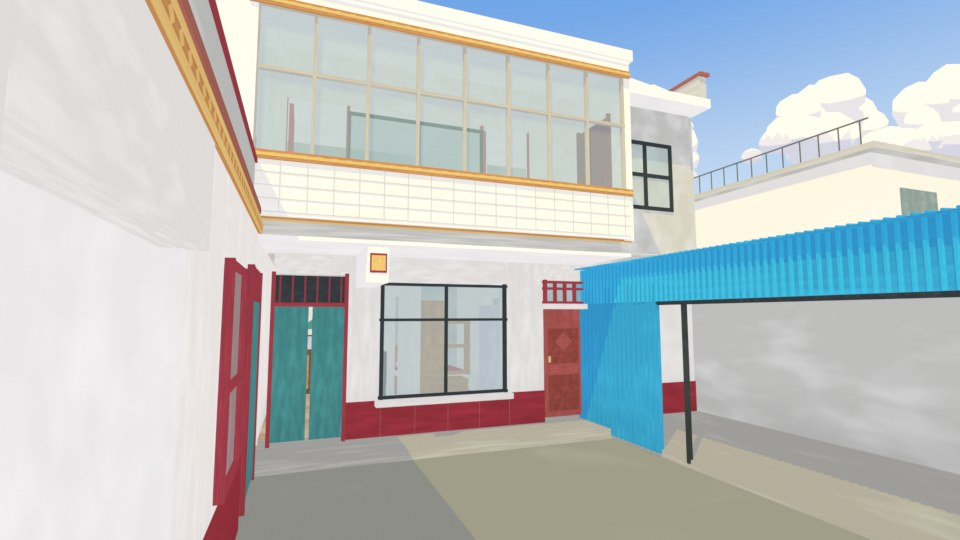
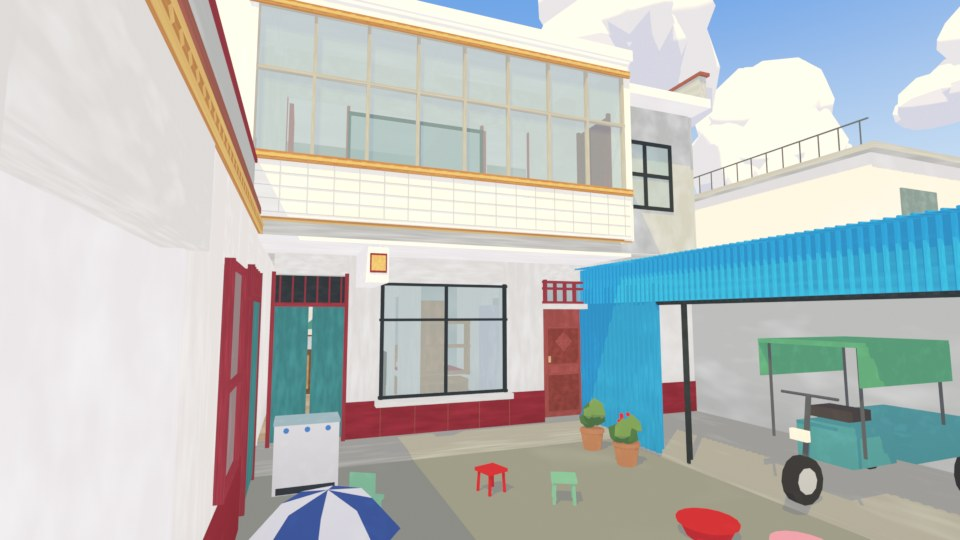
Phase 3 second pass: satellite fit, groves, home dressing, near-view crops
Add a satellite-matched top camera and overlay check, move the plots
off the fields between the north pond and the school, and plant four
satellite groves. Dress the family courtyard with seasonal photo props,
fill tight spots with standalone house blocks, and scatter month-stage
crops, verge grass and wildflowers around the ground-level views while
keeping road corridors clear.

diff --git a/blender/rebuild/layout/build_layout.py b/blender/rebuild/layout/build_layout.py
@@ -391,6 +391,17 @@ def housing(c, trees):
                     Wd = PLOTS[v]["W"]
                 rect = (x, yl - 1.5 - Dp, x + Wd, yl - 1.5)
                 why = blocked(rect)
+                if why in ("home", "exclude", "pond"):
+                    # shallow infill: a standalone 11 x 8 m house block straight onto the lane
+                    small = (x, yl - 1.5 - 8.0, x + 11.0, yl - 1.5)
+                    if not blocked(small):
+                        fac = rng.choice(["grey 2F flat", "white 3F flat", "cream 2F flat", "brick 1F tile", "pink 1F tile"])
+                        p = W((x, yl - 1.5))
+                        place(f"KIT house {fac} L{min(1, lod_for(p))}", p, 0.0, (1, 1, 1), c)
+                        stats["infill"] = stats.get("infill", 0) + 1
+                        row_x.append((x, x + 11.0))
+                        x += 11.0 + rng.uniform(0.5, 2.0)
+                        continue
                 if why:
                     x += 3.0
                     continue
@@ -617,9 +628,11 @@ def fields(c, huts):
                 cells += [(x0, y0, x1, my), (x0, my, x1, y1)]
             else:
                 cells += [(x0, y0, mx, my), (mx, y0, x1, my), (x0, my, mx, y1), (mx, my, x1, y1)]
+    parcels = []
     for r in kept:
         u = rng.random()
         kind = "wheat-maize" if u < 0.85 else ("soybean" if u < 0.93 else "vegetables")
+        parcels.append((r, kind))
         x0, y0, x1, y1 = r
         a, b = W((x0 + 0.3, y1 - 0.3)), W((x1 - 0.3, y0 + 0.3))
         bm = bmesh.new()
@@ -640,7 +653,7 @@ def fields(c, huts):
             for k in range(2):
                 sp = W((x0 + rng.uniform(2, sw - 2), y0 + rng.uniform(10, sl - 10)))
                 place(f"KIT field stake {rng.randrange(2)}", sp, 0.0, (1, 1, 1), huts)
-    return len(kept)
+    return parcels
 
 
 def utilities(c):
@@ -708,6 +721,198 @@ def horizon(c):
             continue
         place(f"KIT poplar clump {'leafy' if LEAFY else 'bare'} {rng.randrange(2)}", p, rng.uniform(0, 6.28), (1, 1, 1), c)
     return n
+
+
+# ---------------------------------------------------------------- second pass: groves, home dressing, near scatter
+
+def groves(trees):
+    n = 0
+    for (x0, y0, x1, y1) in D.GROVES:
+        count = int((x1 - x0) * (y1 - y0) / 45)
+        for k in range(count):
+            q = (rng.uniform(x0 + 2, x1 - 2), rng.uniform(y0 + 2, y1 - 2))
+            if any(G.poly_dist(q, R["pts"]) < R["width"] / 2 + 2 for R in D.ROADS.values()):
+                continue
+            p = W(q)
+            fam = "broadleaf" if rng.random() < 0.7 else "poplar"
+            place(tree_name(fam, lod=lod_for(p)), p, rng.uniform(0, 6.28), rng.uniform(0.8, 1.25), trees)
+            n += 1
+    return n
+
+
+def floor_at(x, y, top=2.6):
+    dg = bpy.context.evaluated_depsgraph_get()
+    hit, loc, *_ = bpy.context.scene.ray_cast(dg, Vector((x, y, top)), Vector((0, 0, -1)))
+    return loc.z if hit else 0.19
+
+
+# the courtyard slab spans x -37.2..-24.8, y -117.3..-101.8: house to the north, kitchen and entry to the west,
+# blue shed to the east. Props follow the courtyard photos and videos (tidy, but lived in).
+HOME_PROPS = [
+    # (kit asset, world x, world y, rotation, months or None, ray start height)
+    ("KIT washing machine", -33.2, -107.7, 0.0, None, 2.6),
+    ("KIT stool red", -31.0, -108.7, 0.3, None, 2.6),
+    ("KIT stool green", -30.3, -109.3, 1.1, None, 2.6),
+    ("KIT kid chair green", -32.6, -109.1, 2.6, None, 2.6),
+    ("KIT basin red", -29.4, -110.6, 0.0, None, 2.6),
+    ("KIT basin pink", -29.0, -111.3, 0.0, None, 2.6),
+    ("KIT basin blue", -32.9, -112.3, 0.0, None, 2.6),
+    ("KIT laundry line", -31.7, -114.6, 0.0, None, 2.6),
+    ("KIT drying rack", -29.6, -113.4, 0.4, None, 2.6),
+    ("KIT umbrella open", -33.1, -110.6, 0.6, None, 2.6),
+    ("KIT potted plant 0", -28.7, -107.5, 0.0, None, 2.6),
+    ("KIT potted plant 1", -28.7, -108.4, 0.0, None, 2.6),
+    ("KIT bamboo broom", -34.0, -112.9, 1.57, None, 2.6),
+    ("KIT stalk pile 0", -29.1, -116.3, 0.3, None, 2.6),
+    ("KIT electric tricycle L0", -26.5, -110.6, 1.5708, None, 2.6),
+    ("KIT e-scooter L0", -38.9, -115.6, 0.05, None, 2.6),
+    ("KIT corn drying", -31.2, -112.0, 0.0, (9, 10), 2.6),
+    ("KIT corn cob pile", -29.3, -115.6, 0.0, (9, 10, 11), 2.6),
+    ("KIT urns", -35.8, -109.8, 0.0, None, 6.5),
+    ("KIT satellite dish", -35.3, -108.2, 2.2, None, 6.5),
+]
+
+
+def home_dressing(c):
+    bpy.context.view_layer.update()
+    n = 0
+    for name, x, y, rot, months, top in HOME_PROPS:
+        if months and MONTH not in months:
+            continue
+        place(name, (x, y, floor_at(x, y, top)), rot, (1, 1, 1), c)
+        n += 1
+    if MONTH in (9, 10, 11, 12, 1, 2):  # strings of chillies drying under the eaves
+        for k, x in enumerate((-32.3, -31.9)):
+            place("KIT chilli string", (x, -106.3, 1.75), 0.0, (1, 1, 1), c)
+            n += 1
+    return n
+
+
+def crop_src(kind, lod):
+    m = MONTH
+    wheat_maize = {10: "wheat seedling", 11: "wheat seedling", 12: "wheat winter", 1: "wheat winter", 2: "wheat winter",
+                   3: "wheat jointing", 4: "wheat jointing", 5: "wheat ripe", 6: "maize seedling 0", 7: "maize knee 0",
+                   8: "maize tall 0", 9: "maize dry 0"}
+    if kind == "soybean" and m in (6, 7, 8, 9):
+        return "KIT soybean L0", (4.0, 2.0)
+    if kind == "vegetables":
+        return "KIT garlic L0", (10.0, 4.0)
+    st = wheat_maize[m]
+    dens = (2.5, 1.5) if st.startswith("maize") else (10.0, 4.0)
+    return f"KIT {st} L{lod}", dens
+
+
+HOTSPOTS = [(599, 700), (565, 400), (250, 266), (404, 131)]  # avenue, home, main road, north pond (map)
+
+
+def _clip(r, q):
+    x0, y0 = max(r[0], q[0]), max(r[1], q[1])
+    x1, y1 = min(r[2], q[2]), min(r[3], q[3])
+    return (x0, y0, x1, y1) if x1 - x0 > 0.5 and y1 - y0 > 0.5 else None
+
+
+def _plane(name, rects_map, c, z=0.02):
+    bm = bmesh.new()
+    for (x0, y0, x1, y1) in rects_map:
+        a, b = W((x0, y1)), W((x1, y0))
+        vs = [bm.verts.new((a.x, a.y, z)), bm.verts.new((b.x, a.y, z)), bm.verts.new((b.x, b.y, z)), bm.verts.new((a.x, b.y, z))]
+        bm.faces.new(vs)
+    me = bpy.data.meshes.new(name)
+    bm.to_mesh(me)
+    bm.free()
+    o = bpy.data.objects.new(name, me)
+    o["sv_kind"] = "scatter"
+    c.objects.link(o)
+    return o
+
+
+def _quads_plane(name, quads_map, c, z=0.03):
+    bm = bmesh.new()
+    for quad in quads_map:
+        vs = [bm.verts.new((*W(q)[:2], z)) for q in quad]
+        f = bm.faces.new(vs)
+    me = bpy.data.meshes.new(name)
+    bm.to_mesh(me)
+    bm.free()
+    o = bpy.data.objects.new(name, me)
+    o["sv_kind"] = "scatter"
+    c.objects.link(o)
+    return o
+
+
+def clear_of_roads(rect, min_size=2.0):
+    """Split a map rectangle into pieces that keep clear of every road corridor (road, shoulder and tree line)."""
+    out, stack = [], [rect]
+    while stack:
+        r = stack.pop()
+        near = min(G.rect_poly_dist(r, R["pts"], samples=2) - (R["width"] / 2 + 2.4) for R in D.ROADS.values())
+        if near > 0:
+            out.append(r)
+            continue
+        x0, y0, x1, y1 = r
+        if max(x1 - x0, y1 - y0) <= min_size:
+            continue
+        mx, my = (x0 + x1) / 2, (y0 + y1) / 2
+        if (x1 - x0) > 2 * (y1 - y0):
+            stack += [(x0, y0, mx, y1), (mx, y0, x1, y1)]
+        elif (y1 - y0) > 2 * (x1 - x0):
+            stack += [(x0, y0, x1, my), (x0, my, x1, y1)]
+        else:
+            stack += [(x0, y0, mx, my), (mx, y0, x1, my), (x0, my, mx, y1), (mx, my, x1, y1)]
+    return out
+
+
+def scatter_near(c, parcels):
+    """Crops at the month's growth stage and verge grass/flowers around the ground-level views only
+    (the web build scatters crops at run time; these make the Blender review renders readable)."""
+    seed = 100
+    count = 0
+    for hx, hy in HOTSPOTS:
+        inner = (hx - 60, hy - 60, hx + 60, hy + 60)
+        outer = (hx - 110, hy - 110, hx + 110, hy + 110)
+        ring = [(outer[0], outer[1], outer[2], inner[1]), (outer[0], inner[3], outer[2], outer[3]),
+                (outer[0], inner[1], inner[0], inner[3]), (inner[2], inner[1], outer[2], inner[3])]
+        groups = {}
+        for r, kind in parcels:
+            ci = _clip(r, inner)
+            if ci:
+                groups.setdefault((kind, 0), []).extend(clear_of_roads(ci))
+            for q in ring:
+                co = _clip(r, q)
+                if co:
+                    groups.setdefault((kind, 1), []).extend(clear_of_roads(co, min_size=4.0))
+        for (kind, lod), rects in groups.items():
+            src, dens = crop_src(kind, lod)
+            pl = _plane(f"crop scatter {kind} L{lod}", rects, c)
+            SL.scatter(pl, SRC[src], dens[lod], seed=seed, scale=(0.85, 1.15), tilt=0.08)
+            seed += 7
+            count += 1
+        # grass and flowers on the road verges near the view
+        quads = []
+        for R in D.ROADS.values():
+            if R["width"] < 3:
+                continue
+            pts = list(G.walk(R["pts"], 8.0))
+            for (x0, y0, a0), (x1, y1, a1) in zip(pts, pts[1:]):
+                if math.hypot(x0 - hx, y0 - hy) > 110 or in_housing((x0, y0), margin=-2):
+                    continue
+                for side in (-1, 1):
+                    o0, o1 = side * (R["width"] / 2 + 0.85), side * (R["width"] / 2 + 3.0)
+                    nx0, ny0 = -math.sin(a0), math.cos(a0)
+                    nx1, ny1 = -math.sin(a1), math.cos(a1)
+                    quads.append([(x0 + nx0 * o0, y0 + ny0 * o0), (x1 + nx1 * o0, y1 + ny1 * o0),
+                                  (x1 + nx1 * o1, y1 + ny1 * o1), (x0 + nx0 * o1, y0 + ny0 * o1)])
+        if quads:
+            for k in range(3):
+                v = _quads_plane(f"verge grass {k}", quads, c)
+                SL.scatter(v, SRC[f"KIT grass tuft {k}"], 7.0, seed=seed + k, scale=(0.8, 1.5))
+            if MONTH in (4, 5, 6, 7, 8, 9):
+                for k, col in enumerate(("white", "yellow", "purple")):
+                    v = _quads_plane(f"verge flowers {col}", quads, c)
+                    SL.scatter(v, SRC[f"KIT wildflower {col}"], (0.5, 0.35, 0.12)[k], seed=seed + 10 + k, scale=(0.8, 1.2))
+            seed += 31
+            count += 1
+    return count
 
 
 # ---------------------------------------------------------------- sky, cameras, renders
@@ -800,6 +1005,9 @@ def cameras(home_cams):
     cams["main road"] = camera("CAM main road", tuple(W((250, 266), 1.65)), tuple(W((420, 245), 3.0)), lens=28)
     cams["north pond"] = camera("CAM north pond", tuple(W((404, 131), 1.8)), tuple(W((372, 82), 1.0)), lens=24)
     cams["avenue"] = camera("CAM avenue", tuple(W((599, 760), 1.65)), tuple(W((597, 560), 4.0)), lens=28)
+    # orthographic top view matching the traced satellite crop (map x 0..685.6, y 0..610), for fit checks
+    sat_c = W((685.6 / 2, 610.0 / 2))
+    cams["satellite"] = camera("CAM satellite", (sat_c.x, sat_c.y, 1500), (sat_c.x, sat_c.y + 0.01, 0), ortho=685.6)
     cams["home aerial"] = camera("CAM home aerial", tuple(W((640, 470), 70)), tuple(W((560, 395), 0)), lens=30)
     for n, o in home_cams.items():
         if n.startswith("VIDEO A"):
@@ -822,7 +1030,7 @@ c_field = coll("fields", root)
 c_util = coll("poles wires lamps", root)
 c_hor = coll("horizon", root)
 home_cams = home_quarter()
-print("HOME rects", len(HOME_RECTS))
+print("HOME rects", len(HOME_RECTS), "map extent", [round(f(r[i] for r in HOME_RECTS)) for f, i in ((min, 0), (min, 1), (max, 2), (max, 3))])
 terrain_and_water(c_ter)
 roads(c_road)
 bridges(c_road)
@@ -830,9 +1038,16 @@ st = housing(c_house, c_tree)
 school(c_house)
 na = avenues(c_tree)
 nv = village_trees(c_tree)
-nf = fields(c_field, c_util)
+parcels = fields(c_field, c_util)
+nf = len(parcels)
 nw = utilities(c_util)
 nh = horizon(c_hor)
+ng = groves(c_tree)
+c_life = coll("home life", root)
+nl = home_dressing(c_life)
+c_scatter = coll("near-view scatter", root)
+ns = scatter_near(c_scatter, parcels)
+print("PASS2 grove trees", ng, "home props", nl, "scatter groups", ns)
 dome = sky(sc)
 cams = cameras(home_cams)
 print("LAYOUT", st, "avenue trees", na, "village trees", nv, "fields", nf, "wire spans", nw, "objects", len(bpy.data.objects))
@@ -845,6 +1060,8 @@ if RENDER:
         cam = cams[n]
         sc.camera = cam
         dome.location = cam.location if cam.data.type != "ORTHO" else (cam.location.x, cam.location.y, 0)
+        if n == "satellite":
+            sc.render.resolution_x, sc.render.resolution_y = 1180, 1050
         sc.render.filepath = os.path.join(RENDERS, f"{n.replace(' ', '_')}_m{MONTH}{'_preview' if PREVIEW else ''}.png")
         bpy.ops.render.render(write_still=True)
         print("RENDERED", sc.render.filepath)

diff --git a/blender/rebuild/layout/layout_data.py b/blender/rebuild/layout/layout_data.py
@@ -99,7 +99,17 @@ EXCLUDE = [  # map rectangles kept free of generated plots
     (288, 50, 452, 134),   # north pond and banks
     (92, 246, 175, 294),   # west pond
     (340, 350, 452, 386),  # south pond
+    (448, 18, 522, 118),   # fields between the north pond and the school (satellite: no houses)
 ]
+
+# dense tree canopy seen on the satellite inside the village: planted as groves, kept free of plots
+GROVES = [
+    (238, 300, 300, 470),  # east side of 小王庄
+    (300, 340, 352, 384),  # west of the south pond
+    (452, 322, 598, 366),  # strip between the south-middle rows and the pond line
+    (266, 128, 292, 228),  # beside the lane west of the north village centre
+]
+EXCLUDE += GROVES
 
 # ---------------------------------------------------------------- vegetation
 

diff --git a/blender/rebuild/PROGRESS.md b/blender/rebuild/PROGRESS.md
@@ -1,6 +1,6 @@
 # SmallVillage 2.0 — progress checkpoint
 
-Saved 20 October 2026: Phases 1–2 done, Phase 3 first pass done. Resume from here.
+Saved 20 October 2026: Phases 1–2 done, Phase 3 first and second passes done. Resume from here.
 
 - **Plan:** `D:/blender/hometown/REBUILD_PLAN.md` (phases, research, decisions)
 - **Repo:** `D:/blender/test0910/SmallVillage`, branch **`rebuild-2027`**. It is local only and not pushed. `main` is untouched, and the live site still runs the old version.
@@ -45,7 +45,7 @@ Use `--groups <name,...>` to render only some review sheets. `presets` renders t
 "D:/soft/blender/blender.exe" -b --factory-startup --python blender/rebuild/layout/build_layout.py -- --month 8 --preset "summer afternoon" --render overview,plan --preview
 ```
 
-Cameras: `overview`, `plan`, `main road`, `north pond`, `avenue`, `home aerial`, `home courtyard`. Underscores also work in names.
+Cameras: `overview`, `plan`, `satellite`, `main road`, `north pond`, `avenue`, `home aerial`, `home courtyard`. Underscores also work in names.
 
 - **`layout_data.py`:** the satellite trace in map metres, with scale bar 86 px = 50 m. `to_world()` puts the star (map 565, 400) on the existing house origin (−37, −109), so the old house and walk coordinates still hold. It covers roads and lanes, three ponds, ditches, the south canal, bridges, housing regions, exclusions, tree belts and the field extent.
 - **`build_layout.py`:**
@@ -58,12 +58,28 @@ Cameras: `overview`, `plan`, `main road`, `north pond`, `avenue`, `home aerial`,
   - adds the horizon ring and clouds from the sky preset.
 - **Review images:** `layout/renders/*.jpg`.
 
-### Next for Phase 3 (second pass)
+### Phase 3 second pass — done (20 Oct 2026)
 
-1. Fill the empty land east of the home and dress the home quarter with courtyard props.
-2. Crop scatter near the cameras (kit wheat and maize by month), verge grass and flowers.
-3. Check plot fit against the satellite, lane spacing and plots crossing the main road; add the dream-area placeholder beyond the horizon.
-4. Then Phase 4: web export (tiles, instancing, LOD, KTX2, splitting `water` faces and `wheels` groups).
+- **Fit check:**
+  - The `satellite` camera renders an orthographic top view exactly matching the traced crop. `renders/satellite_overlay.jpg` blends it 50/50 with the gridded satellite image.
+  - Roads, ponds and house rows line up. The block between the north pond and the school is now fields, as on the satellite.
+  - Four `GROVES` traced from the satellite canopy are planted with trees instead of plots.
+- **Home quarter:**
+  - 18 photo-based props in the courtyard, alley and terrace, at real positions on the courtyard slab. They are seasonal: corn drying in September–October and chillies in September–February.
+  - 15 standalone house blocks fill the spots next to the house, ponds and groves where a full courtyard plot does not fit.
+- **Near the views** (avenue, home, main road, north pond):
+  - Kit crops at the month's growth stage: full detail within 60 m, LOD1 to 110 m, kept clear of road corridors.
+  - Verge grass, plus wildflowers in April–September.
+- **Current counts:** 432 plots, 51 gardens, 15 infill blocks, 459 grove trees, about 11.9k objects. A build takes about 1.5 minutes plus renders.
+
+### Still open for Phase 3
+
+- Dream-area placeholder beyond the horizon.
+- Review renders for other months: May (harvest), October and January.
+
+### Next: Phase 4, web export
+
+Tiles, instancing, LOD, KTX2, and splitting `water` faces and `wheels` groups.
 
 Phases 5–9 are unchanged from the plan: main page map modes and paraglider, avatar and dog with animals, activity polish, climate and seasons, then deploy.
 
